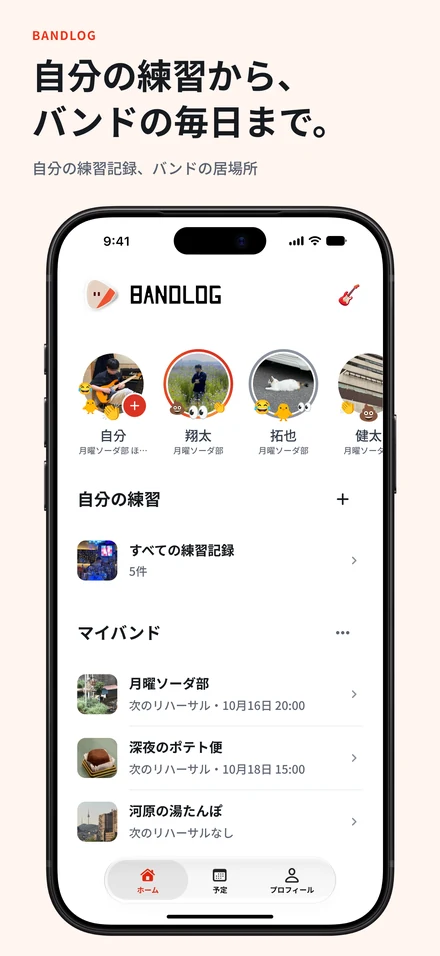
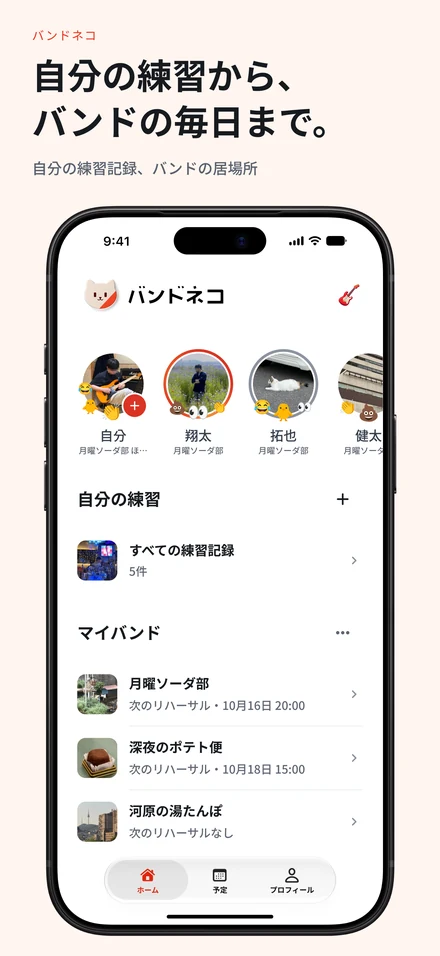
feat: 일본어 홈페이지를 バンドネコ 브랜드로 갱신

Changed region(s): [[0.2955, 0.273, 0.5318, 0.3337], [0.0591, 0.0303, 0.2068, 0.0607], [0.2068, 0.273, 0.2659, 0.3337]]

diff --git a/index.html b/index.html
@@ -154,7 +154,7 @@
         <div class="container">
           <div class="product-topline">
             <p data-i18n="services">The services we make</p>
-            <span>Bandlog</span>
+            <span data-i18n="bandlog">Bandlog</span>
           </div>
           <div class="product-intro">
             <div>
@@ -166,7 +166,8 @@
                   width="512"
                   height="512"
                   loading="lazy"
-                /><span data-i18n="bandlog">Bandlog</span>
+                /><span class="product-name" data-i18n="bandlog">Bandlog</span>
+                <img class="product-wordmark" hidden src="assets/bandlog/ja-JP/wordmark.webp?v=20261012-bandneko-r2" alt="バンドネコ" width="1789" height="455" loading="lazy" />
               </div>
               <h2 id="bandlog-title" data-i18n="product.title">From your practice<br />to your band.</h2>
             </div>

diff --git a/styles.css b/styles.css
@@ -1118,3 +1118,7 @@ footer {
     transition: none !important;
   }
 }
+
+/* 일본어는 승인된 기하학 워드마크 원본을 사용한다. */
+.product-wordmark { width: clamp(180px, 20vw, 250px); height: auto; }
+.product-brand [hidden] { display: none; }

diff --git a/README.md b/README.md
@@ -32,7 +32,7 @@ JavaScript 없이도 본문·이미지·연락처를 이용할 수 있습니다.
 
 상단 dropdown에서 한국어·日本語·繁體中文（台灣）·English를 선택합니다. 수동 선택은 `localStorage`의 `naroworks.locale`에 저장하며 이후 방문에도 우선합니다. 저장된 선택이 없으면 `navigator.languages`의 선호 순서에서 지원하는 언어를 선택하고, 일치하는 언어가 없으면 영어를 표시합니다. 번체 중국어는 `zh-Hant` 또는 TW·HK·MO 지역을 인식하며 간체 중국어는 지원하지 않습니다.
 
-언어를 바꾸면 본문·문서 제목·접근성 문구·갤러리 캡션과 iPhone 이미지 5장이 함께 바뀝니다. 외국어 썸네일은 Bandlog Figma 99의 같은 Ready r1 원본에서 만들었습니다. JavaScript가 꺼진 경우 영어 본문과 영어 이미지를 제공합니다. 브라우저 저장이 차단돼도 현재 방문의 선택은 동작합니다. 회사의 법정 명칭·등록번호와 기존 공개 정책 링크는 보존합니다.
+언어를 바꾸면 본문·문서 제목·접근성 문구·갤러리 캡션과 iPhone 이미지 5장이 함께 바뀝니다. 일본어는 バンドネコ 이름·고양이 심볼·흰색 워드마크와 일본어 Ready r2의 화면 5장을 사용합니다. 다른 외국어 썸네일은 기존 Figma 99의 Ready r1 원본을 유지합니다. JavaScript가 꺼진 경우 영어 본문과 영어 이미지를 제공합니다. 브라우저 저장이 차단돼도 현재 방문의 선택은 동작합니다. 회사의 법정 명칭·등록번호와 기존 공개 정책 링크는 보존합니다.
 
 언어 감지·선택 우선순위·번역 누락 검증:
 

diff --git a/ASSET_PROVENANCE.md b/ASSET_PROVENANCE.md
@@ -107,3 +107,7 @@ Avoid: gradients, shadows, 3D, perspective depth, texture, paper grain, noise, g
 | en-US | iphone-03-encouragement.png | 2131:5478 | c9a5e43e7cd3e19bc7cd58e7fd849e5ea032ee6f89426988b02f55e641e2b331 |
 | en-US | iphone-04-hapju.png | 2131:5679 | 03e5097ac2300efc7ebcc651863748a8ed0c953ba8b00725169de48fe17c3828 |
 | en-US | iphone-05-practice-reactions.png | 2131:6021 | f36601c7d91409d42d3ea63bdfd2940e8a66f6697be11af926dd5236a19d1336 |
+
+## 2026-10-12 일본어 バンドネコ 브랜드
+
+일본어에서만 バンドネコ 명칭·승인 고양이 심볼·흰색 Thin 워드마크를 표시한다. Figma 브랜드 Ready 2182:69, 일본어 스토어 Ready 2189:751에서 승인했다. 스토어 PNG 1320×2868를 기존 440/880px WebP 규격(Pillow LANCZOS, quality88, method6)으로 파생했다. 고양이 RGBA는 156×156 lossless WebP, 흰색 워드마크는 500×127 lossless WebP다. 다른 언어의 자산·본문은 기존 그대로이며 언어 복귀 시 기존 심볼을 사용한다.
